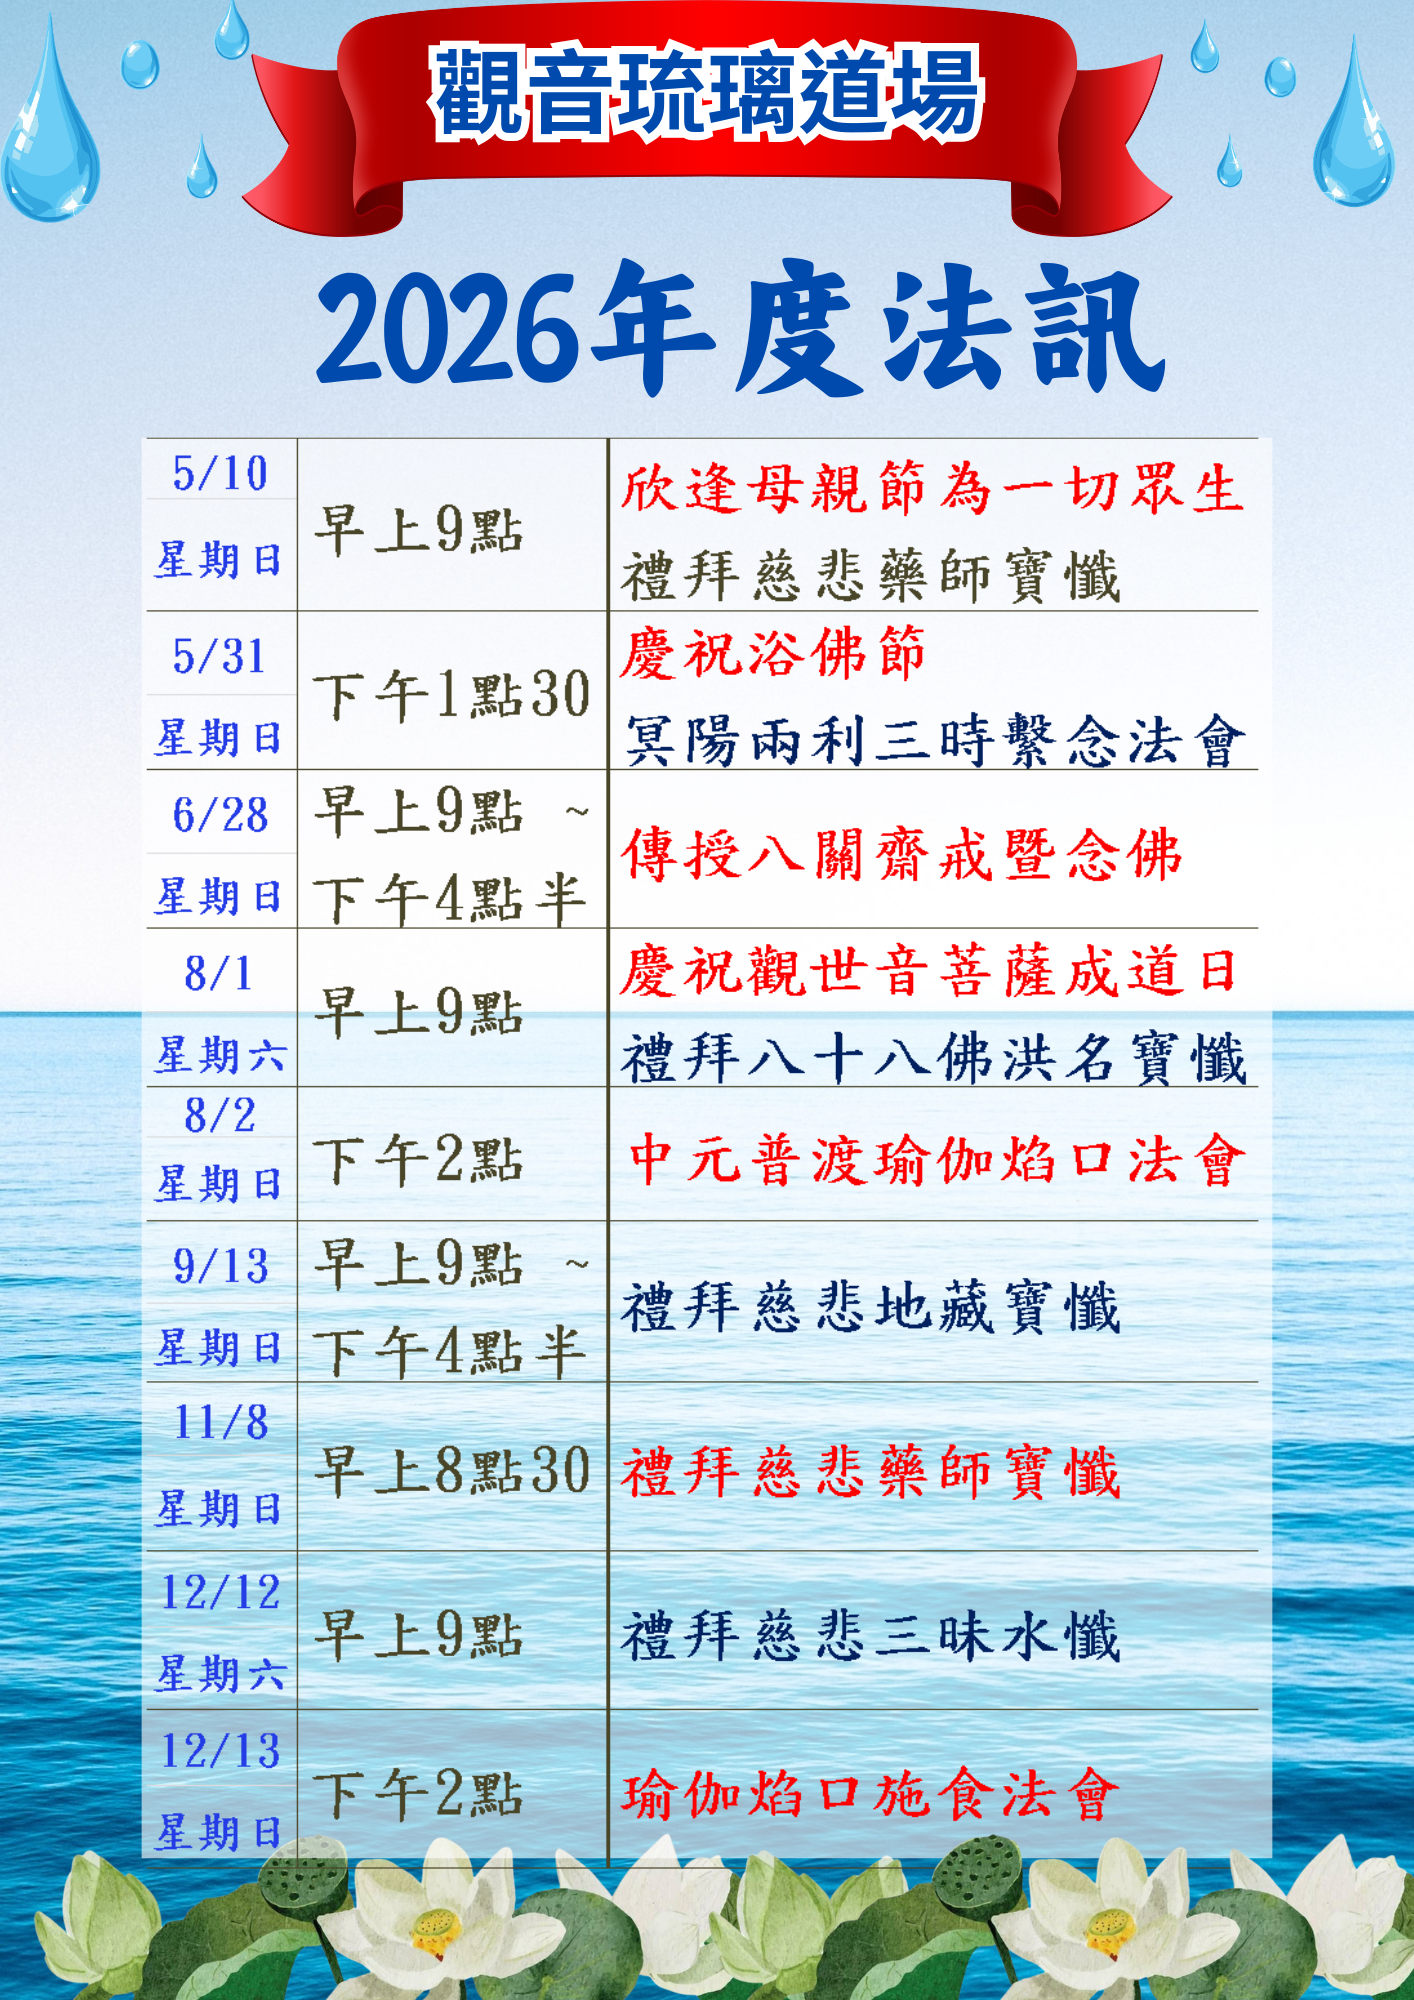
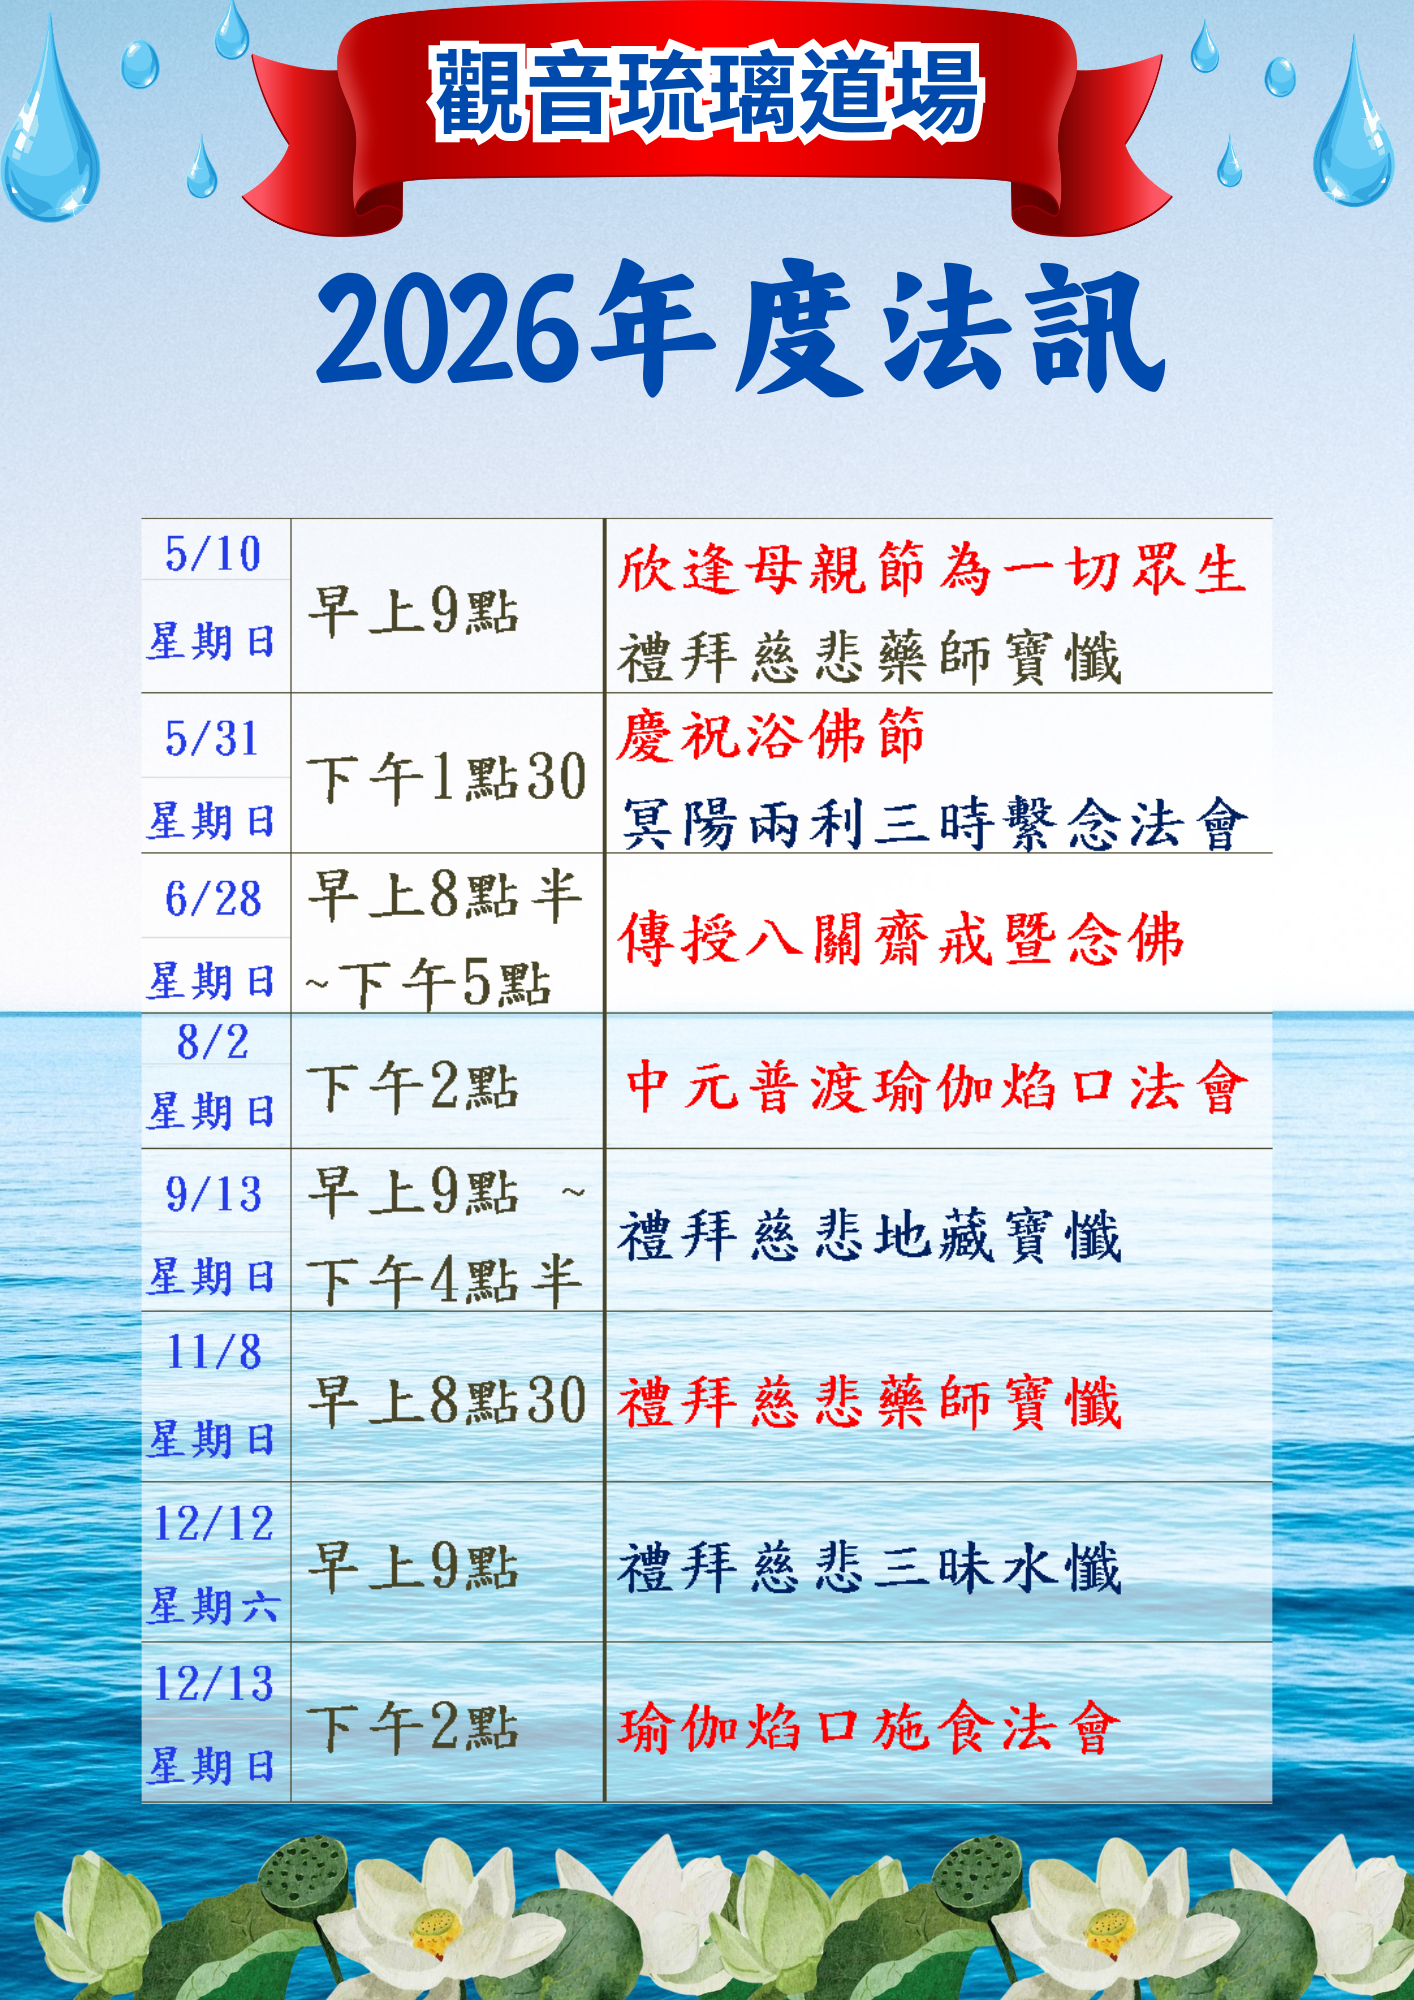
更改法訊

Changed region(s): [[0.0934, 0.217, 0.9024, 0.93]]

diff --git a/index.html b/index.html
@@ -245,8 +245,8 @@ nav{display:none}
 
 <div class="topbar">
   <div class="topbar-track">
-    <a class="topbar-link topbar-signup" href="#">快訊｜<span class="topbar-time">5/10(日)早上9點</span> 欣逢母親節，為一切眾生特舉辦【禮拜慈悲藥師寶懺】。(備有消災超薦牌位)，歡迎十方信眾報名參加！</a>
-    <a class="topbar-link topbar-signup" href="#" aria-hidden="true">快訊｜<span class="topbar-time">5/10(日)早上9點</span> 欣逢母親節，為一切眾生特舉辦【禮拜慈悲藥師寶懺】。(備有消災超薦牌位)，歡迎十方信眾報名參加！</a>
+    <a class="topbar-link topbar-signup" href="#">快訊｜<span class="topbar-time">5/31(日)下午2點</span> 慶祝浴佛節，特舉辦【三時繫念冥陽兩利大法會】。(備有超薦牌位)，歡迎十方信眾報名參加！</a>
+    <a class="topbar-link topbar-signup" href="#" aria-hidden="true">快訊｜<span class="topbar-time">5/31(日)下午2點</span> 慶祝浴佛節，特舉辦【三時繫念冥陽兩利大法會】。(備有超薦牌位)，歡迎十方信眾報名參加！</a>
   </div>
   <div class="topbar-note">快訊可以點擊</div>
 </div>
@@ -394,8 +394,8 @@ nav{display:none}
     <p>道場近期訊息與護持事項</p>
   </div>
   <div class="card" style="padding:0">
-    <div class="news-item"><div class="date">2026 / 04 / 05</div><p>【初一、十五共修】</p><p>4/17(五)早上9點 共修藥師琉璃光如來本願功德經，佛前大供暨放生。</p></div>
-    <div class="news-item"><div class="date">2026 / 04 / 06</div><p>【欣逢母親節為一切眾生】</p><p>5/10(日)早上9點 ，特舉辦禮拜慈悲藥師寶懺。(備有消災超薦牌位)</p></div>
+    <div class="news-item"><div class="date">2026 / 05 / 13</div><p>【初一、十五共修】</p><p>5/17(日)早上9點 禮拜八十八佛洪名寶懺，佛前大供暨放生。</p></div>
+    <div class="news-item"><div class="date">2026 / 05 / 13</div><p>【慶祝浴佛節】</p><p>5/31(日)下午1點30 ，特舉辦三時繫念冥陽兩利大法會。(備有超薦牌位)</p></div>
     <div class="news-item"><div class="date">2026 / 03 / 05</div><p>【消災祈福活動】</p><p>2026年度【佛前消災祈福光明燈禄位】年繳、半年繳登記。</p><p>（道場每逢農曆初一、十五共修及法會，三寶加被，宣疏迴向護法大德，佛光注照、本命元辰。）</p><a href="plaque.html" class="news-btn">欲知詳情</a></div>
     <div class="news-item"><div class="date">2026 / 03 / 05</div><p>【點燈活動】</p><p>為病苦者點燈（藥師經云：生病之人連續49日，日燃49燈，可得藥師琉璃光如來不可思議之加持力。）</p><p>為往生者點燈49日，可蒙佛光接引。</p><a href="lamp.html" class="news-btn">欲知詳情</a></div>
     <div class="news-item"><div class="date">2026 / 03 / 05</div><p>【放生活動】</p><p>為現世者、病苦者放生，可消刀兵劫、消災免難。</p><p>為往生者放生，可累積往生福德資糎。</p><a href="release.html" class="news-btn">欲知詳情</a></div>
@@ -596,8 +596,7 @@ const events={
   "2026-04-06":"慶祝觀世音菩薩聖誕 舉辦禮拜八十八佛洪名寶懺 早上9點(備有消災祈福牌位)",
   "2026-05-10":"禮拜慈悲藥師寶懺 早上9點(備有消災超薦牌位)",
   "2026-05-31":"浴佛節冥陽兩利三時繫念大法會 下午1點半(備有超薦牌位)",
-  "2026-06-28":"傳授八關齋戒暨念佛 早上9點開始(備有消災及超薦牌位)",
-  "2026-08-01":"觀世音菩薩成道日 禮拜八十八佛洪名寶懺 早上9點(備有消災牌位)",
+  "2026-06-28":"傳授八關齋戒暨念佛 早上8點半開始(備有超薦牌位)",
   "2026-08-02":"中元普渡瑜伽焰口法會 下午2點(備有超薦牌位)",
   "2026-09-13":"慈悲地藏寶懺 早上9點至下午4點半(備有消災及超薦牌位)",
   "2026-11-08":"藥師佛聖誕法會 早上8點半(備有消災牌位)",

diff --git a/event-signup.html b/event-signup.html
@@ -55,8 +55,8 @@ footer{background:#1f5ea8;color:#fff;text-align:center;padding:28px}
 <body>
 <div class="topbar">
   <div class="topbar-track">
-    <a class="topbar-link topbar-signup" href="#">快訊｜<span class="topbar-time">4/6(一)早上9點</span>慶祝觀世音菩薩聖誕，特舉辦【禮拜八十八佛洪名寶懺】。(備有消災祈福祿位)，歡迎十方信眾報名參加！</a>
-    <a class="topbar-link topbar-signup" href="#" aria-hidden="true">快訊｜<span class="topbar-time">4/6(一)早上9點</span> 慶祝觀世音菩薩聖誕，特舉辦【禮拜八十八佛洪名寶懺】。(備有消災祈福祿位)，歡迎十方信眾報名參加！</a>
+    <a class="topbar-link topbar-signup" href="#">快訊｜<span class="topbar-time">5/31(日)下午2點</span>慶祝浴佛節，特舉辦【三時繫念冥陽兩利大法會】。(備有超薦牌位)，歡迎十方信眾報名參加！</a>
+    <a class="topbar-link topbar-signup" href="#" aria-hidden="true">快訊｜<span class="topbar-time">5/31(日)下午2點</span> 慶祝浴佛節，特舉辦【三時繫念冥陽兩利大法會】。(備有超薦牌位)，歡迎十方信眾報名參加！</a>
   </div>
 </div>
 <header>
@@ -126,7 +126,6 @@ if(date){
     '2026-05-17':'5.17海報.png',
     '2026-05-31':'5.31海報.png',
     '2026-06-28':'6.28海報.jpg',
-    '2026-08-01':'8.1海報.jpg',
     '2026-08-02':'8.2海報.jpg',
     '2026-09-13':'9.13海報.png',
     '2026-11-08':'11.8海報.png',
@@ -140,6 +139,7 @@ if(date){
     '2026-04-06':'https://docs.google.com/forms/d/e/1FAIpQLSfWmldWRtzPBqtPmlHAEoCrjUtvexVus9KJHwM0kEnQ7IquNw/viewform',
     '2026-05-01':'https://forms.gle/o5AKTrMsRPyNDK216',
     '2026-05-10':'https://forms.gle/4CLN2yqUszgnChK26',
+    '2026-05-17':'https://forms.gle/cRasexfkqFwXpVJq5',
     '2026-05-31':'https://forms.gle/JgCnjxNvRKhTpYMp9',
   };
   if(posterMap[date]){

diff --git a/plaque.html b/plaque.html
@@ -97,8 +97,8 @@ header{position:static}
 
 <div class="topbar">
   <div class="topbar-track">
-    <a class="topbar-link topbar-signup" href="#">快訊｜<span class="topbar-time">5/10(日)早上9點</span> 欣逢母親節，為一切眾生特舉辦【禮拜慈悲藥師寶懺】。(備有消災超薦牌位)，歡迎十方信眾報名參加！</a>
-    <a class="topbar-link topbar-signup" href="#" aria-hidden="true">快訊｜<span class="topbar-time">5/10(日)早上9點</span> 欣逢母親節，為一切眾生特舉辦【禮拜慈悲藥師寶懺】。(備有消災超薦牌位)，歡迎十方信眾報名參加！</a>
+    <a class="topbar-link topbar-signup" href="#">快訊｜<span class="topbar-time">5/31(日)下午2點</span> 慶祝浴佛節，特舉辦【三時繫念冥陽兩利大法會】。(備有超薦牌位)，歡迎十方信眾報名參加！</a>
+    <a class="topbar-link topbar-signup" href="#" aria-hidden="true">快訊｜<span class="topbar-time">5/31(日)下午2點</span> 慶祝浴佛節，特舉辦【三時繫念冥陽兩利大法會】。(備有超薦牌位)，歡迎十方信眾報名參加！</a>
   </div>
 </div>
 
